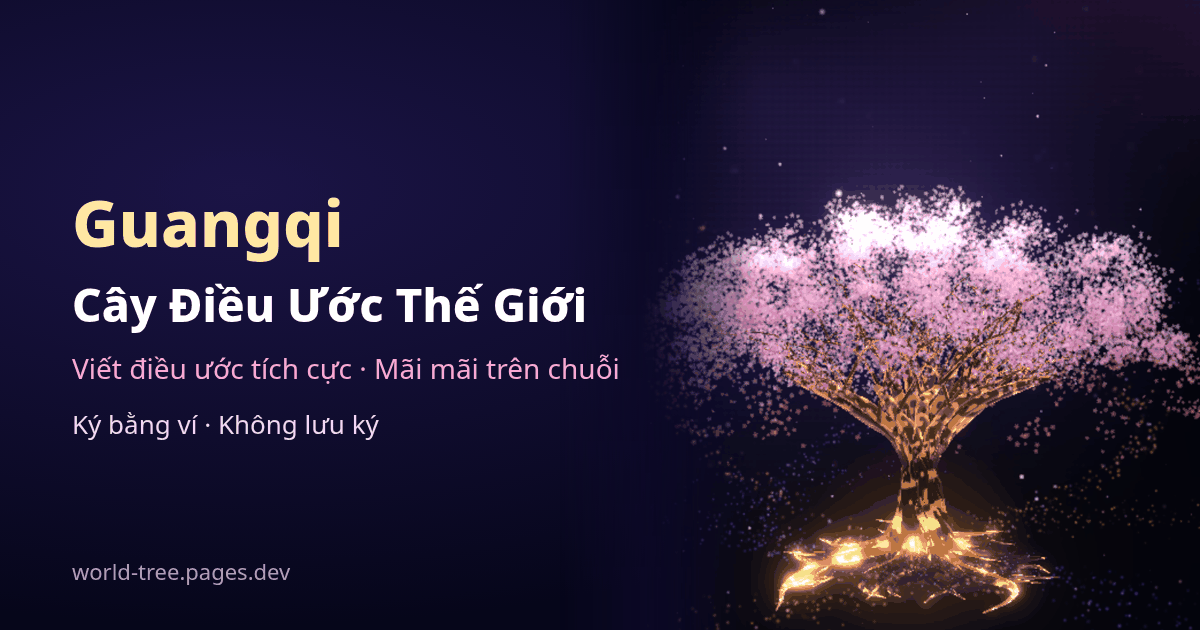
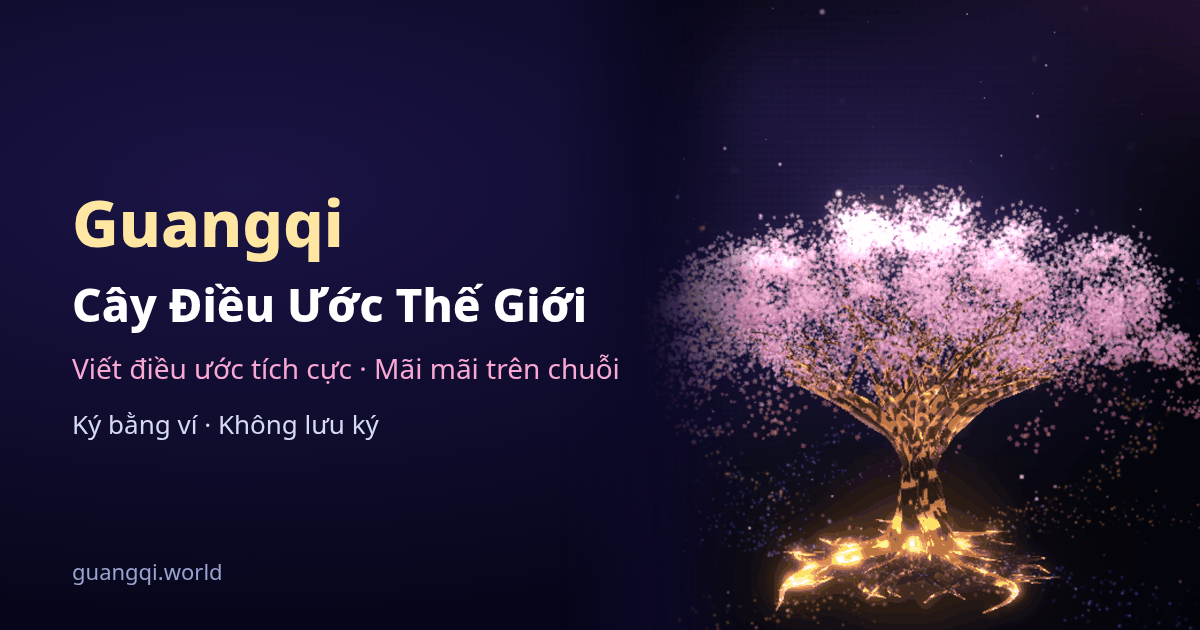
域名：guangqi.world 作为首选域名（DOMAINS_ENSURE 启动补齐、前端回退清单、og/canonical 默认值、og 图），pages.dev 保留备用

diff --git a/public/index.html b/public/index.html
@@ -3,8 +3,8 @@
 <meta name="description" content="在世界树上留下你的正向心愿，永久上链，不可转让。钱包签名，资金直达项目地址，本站不托管。">
 <meta name="keywords" content="光栖,世界树,许愿树,心愿卡,链上心愿,Solana,Web3,区块链许愿,Guangqi,World Tree,wish tree">
 <meta name="robots" content="index,follow,max-image-preview:large">
-<link rel="canonical" href="https://world-tree.pages.dev/">
-<link rel="alternate" hreflang="zh-CN" href="https://world-tree.pages.dev/?lang=zh-CN"><link rel="alternate" hreflang="zh-TW" href="https://world-tree.pages.dev/?lang=zh-TW"><link rel="alternate" hreflang="en" href="https://world-tree.pages.dev/?lang=en"><link rel="alternate" hreflang="ja" href="https://world-tree.pages.dev/?lang=ja"><link rel="alternate" hreflang="ko" href="https://world-tree.pages.dev/?lang=ko"><link rel="alternate" hreflang="es" href="https://world-tree.pages.dev/?lang=es"><link rel="alternate" hreflang="fr" href="https://world-tree.pages.dev/?lang=fr"><link rel="alternate" hreflang="de" href="https://world-tree.pages.dev/?lang=de"><link rel="alternate" hreflang="pt" href="https://world-tree.pages.dev/?lang=pt"><link rel="alternate" hreflang="ru" href="https://world-tree.pages.dev/?lang=ru"><link rel="alternate" hreflang="ar" href="https://world-tree.pages.dev/?lang=ar"><link rel="alternate" hreflang="hi" href="https://world-tree.pages.dev/?lang=hi"><link rel="alternate" hreflang="id" href="https://world-tree.pages.dev/?lang=id"><link rel="alternate" hreflang="th" href="https://world-tree.pages.dev/?lang=th"><link rel="alternate" hreflang="tr" href="https://world-tree.pages.dev/?lang=tr"><link rel="alternate" hreflang="vi" href="https://world-tree.pages.dev/?lang=vi"><link rel="alternate" hreflang="x-default" href="https://world-tree.pages.dev/">
+<link rel="canonical" href="https://guangqi.world/">
+<link rel="alternate" hreflang="zh-CN" href="https://guangqi.world/?lang=zh-CN"><link rel="alternate" hreflang="zh-TW" href="https://guangqi.world/?lang=zh-TW"><link rel="alternate" hreflang="en" href="https://guangqi.world/?lang=en"><link rel="alternate" hreflang="ja" href="https://guangqi.world/?lang=ja"><link rel="alternate" hreflang="ko" href="https://guangqi.world/?lang=ko"><link rel="alternate" hreflang="es" href="https://guangqi.world/?lang=es"><link rel="alternate" hreflang="fr" href="https://guangqi.world/?lang=fr"><link rel="alternate" hreflang="de" href="https://guangqi.world/?lang=de"><link rel="alternate" hreflang="pt" href="https://guangqi.world/?lang=pt"><link rel="alternate" hreflang="ru" href="https://guangqi.world/?lang=ru"><link rel="alternate" hreflang="ar" href="https://guangqi.world/?lang=ar"><link rel="alternate" hreflang="hi" href="https://guangqi.world/?lang=hi"><link rel="alternate" hreflang="id" href="https://guangqi.world/?lang=id"><link rel="alternate" hreflang="th" href="https://guangqi.world/?lang=th"><link rel="alternate" hreflang="tr" href="https://guangqi.world/?lang=tr"><link rel="alternate" hreflang="vi" href="https://guangqi.world/?lang=vi"><link rel="alternate" hreflang="x-default" href="https://guangqi.world/">
 <meta name="theme-color" content="#02030b">
 <meta property="og:type" content="website">
 <meta property="og:site_name" content="光栖 Guangqi">
@@ -12,9 +12,9 @@
 <meta property="og:locale:alternate" content="zh_TW"><meta property="og:locale:alternate" content="en_US"><meta property="og:locale:alternate" content="ja_JP"><meta property="og:locale:alternate" content="ko_KR"><meta property="og:locale:alternate" content="es_ES"><meta property="og:locale:alternate" content="fr_FR"><meta property="og:locale:alternate" content="de_DE"><meta property="og:locale:alternate" content="pt_BR"><meta property="og:locale:alternate" content="ru_RU"><meta property="og:locale:alternate" content="ar_AR"><meta property="og:locale:alternate" content="hi_IN"><meta property="og:locale:alternate" content="id_ID"><meta property="og:locale:alternate" content="th_TH"><meta property="og:locale:alternate" content="tr_TR"><meta property="og:locale:alternate" content="vi_VN">
 <meta property="og:title" content="光栖 · 世界树许愿树">
 <meta property="og:description" content="在世界树上留下你的正向心愿，永久上链">
-<meta property="og:url" content="https://world-tree.pages.dev/">
-<meta property="og:image" content="https://world-tree.pages.dev/og-image.png">
-<meta property="og:image:secure_url" content="https://world-tree.pages.dev/og-image.png">
+<meta property="og:url" content="https://guangqi.world/">
+<meta property="og:image" content="https://guangqi.world/og-image.png">
+<meta property="og:image:secure_url" content="https://guangqi.world/og-image.png">
 <meta property="og:image:type" content="image/png">
 <meta property="og:image:width" content="1200">
 <meta property="og:image:height" content="630">
@@ -22,7 +22,7 @@
 <meta name="twitter:card" content="summary_large_image">
 <meta name="twitter:title" content="光栖 · 世界树许愿树">
 <meta name="twitter:description" content="在世界树上留下你的正向心愿，永久上链">
-<meta name="twitter:image" content="https://world-tree.pages.dev/og-image.png">
+<meta name="twitter:image" content="https://guangqi.world/og-image.png">
 <meta name="twitter:image:alt" content="光栖 · 世界树许愿树"><link rel="icon" href="data:,"><link rel="stylesheet" href="style.css">
 <script type="importmap">{"imports":{"three":"./vendor/three/three.module.js","three/addons/":"./vendor/three/"}}</script></head>
 <body><a class="skip-link" href="#view" data-i18n="a11y.skip">跳到主要内容</a><canvas id="sky-fallback" role="img" data-i18n-aria="a11y.skyLabel" aria-label="世界树星空" aria-describedby="sky-desc"></canvas><div id="sky"></div><p id="sky-desc" class="sr-only" data-i18n="a11y.skyDesc"></p>

diff --git a/domains.js b/domains.js
@@ -5,10 +5,13 @@ const fs = require('fs'), path = require('path');
 const F = path.join(__dirname, 'data', 'domains.json'), STATUS = ['active', 'standby', 'blocked'], MAX = 50;
 const HOST = /^(?=.{4,253}$)([a-z0-9]([a-z0-9-]{0,61}[a-z0-9])?\.)+[a-z]{2,24}$/; // 只接受域名（无端口 / 路径 / IP / 凭据）
 const SEED = (process.env.DOMAINS_SEED || 'world-tree.pages.dev').split(',').map(x => x.trim().toLowerCase()).filter(x => HOST.test(x));
+// 启动时补齐的内置域名（只补缺失项，且一律 standby；不改已有域名的状态 / 主域）。换主域仍走管理端点。要永久删除某个域，同时把它从 DOMAINS_ENSURE 去掉。
+const ENSURE = (process.env.DOMAINS_ENSURE ?? 'guangqi.world,www.guangqi.world').split(',').map(x => x.trim().toLowerCase()).filter(x => HOST.test(x));
 let D = null; const err = c => Object.assign(new Error(c), { code: c });
 function load() { if (D) return D; let j = null; try { j = JSON.parse(fs.readFileSync(F, 'utf8')); } catch {}
   D = { domains: (j && j.domains && !Array.isArray(j.domains)) ? j.domains : {}, updatedAt: (j && j.updatedAt) || 0 };
-  if (!Object.keys(D.domains).length) { SEED.forEach((h, i) => D.domains[h] = { status: 'active', primary: i === 0, note: 'seed', at: 0 }); if (SEED.length) save(); } return D; }
+  if (!Object.keys(D.domains).length) { SEED.forEach((h, i) => D.domains[h] = { status: 'active', primary: i === 0, note: 'seed', at: 0 }); if (SEED.length) save(); }
+  let ch = false; for (const h of ENSURE) if (!D.domains[h] && Object.keys(D.domains).length < MAX) { D.domains[h] = { status: 'standby', primary: false, note: 'ensure', at: Math.floor(Date.now() / 1000) }; ch = true; } if (ch) save(); return D; }
 function save() { D.updatedAt = Math.floor(Date.now() / 1000); fs.mkdirSync(path.dirname(F), { recursive: true }); fs.writeFileSync(F, JSON.stringify(D), { mode: 0o600 }); }
 const norm = h => String(h || '').trim().toLowerCase().replace(/^https?:\/\//, '').replace(/\/+$/, '');
 function ok(h) { h = norm(h); if (!HOST.test(h)) throw err('host'); return h; }

diff --git a/scripts/build-pages.js b/scripts/build-pages.js
@@ -6,7 +6,7 @@ const api = (process.env.WT_API_BASE || 'https://world-tree-ijv1.onrender.com').
[1 lines of base64/hex data omitted]
 if (!/^[0-9a-f]{64}$/.test(mod)) throw new Error('bad moderator pubkey');
 const pub = path.join(__dirname, '..', 'public');
-const doms = (process.env.WT_DOMAINS || '').split(',').map(x => x.trim().toLowerCase()).filter(x => /^([a-z0-9-]+\.)+[a-z]{2,24}$/.test(x)); // 内置默认域名清单（/api/domains 不可达时的回退，首个为主域）
+const doms = (process.env.WT_DOMAINS || '').split(',').map(x => x.trim().toLowerCase()).filter(x => /^([a-z0-9-]+\.)+[a-z]{2,24}$/.test(x)); if (!doms.length) doms.push('guangqi.world', 'world-tree.pages.dev'); // 默认：guangqi.world 为首选，pages.dev 备用 // 内置默认域名清单（/api/domains 不可达时的回退，首个为主域）
 fs.writeFileSync(path.join(pub, 'config.js'), `window.WT_CONFIG = { moderatorPubkeyHex: '${mod}', apiBase: '${api}'${doms.length ? ", domains: " + JSON.stringify(doms) : ''} };\n`);
 // _headers：x-wt 让 Service Worker 识别真实响应；第三方库长缓存
 fs.writeFileSync(path.join(pub, '_headers'), `/*\n  x-wt: 1\n/vendor/*\n  cache-control: public, max-age=604800, stale-while-revalidate=2592000\n/models/*\n  cache-control: public, max-age=604800\n/blocklist*\n  cache-control: public, max-age=300, stale-while-revalidate=86400\n  access-control-allow-origin: *\n/og-image.png\n  cache-control: public, max-age=86400, stale-while-revalidate=604800\n/og/*\n  cache-control: public, max-age=86400, stale-while-revalidate=604800\n`);

diff --git a/scripts/og/gen.js b/scripts/og/gen.js
@@ -8,7 +8,7 @@ const html = (k, x) => `<!doctype html><html lang="${k}" dir="${x.rtl ? 'rtl' : 
 .t{position:absolute;top:0;bottom:0;left:72px;width:600px;display:flex;flex-direction:column;justify-content:center;gap:18px}
 .b{color:#ffe7a3;font-size:${x.b.length > 6 ? 64 : 84}px;font-weight:800;line-height:1.1}.b small{font-size:36px;color:#f6b26b;font-weight:500;margin-inline-start:22px}
 .ti{color:#fff;font-size:${x.t.length > 16 ? 46 : 54}px;font-weight:800;line-height:1.2}.u{color:#f9a8d4;font-size:${x.u.length > 34 ? 28 : 34}px;line-height:1.35}.m{color:#d6dbf5;font-size:26px}.url{position:absolute;bottom:44px;left:72px;color:#9aa3cf;font:22px "Noto Sans",sans-serif}
-</style><body><div class=tree></div><div class=t><div class=b>${x.b}${x.s ? `<small>${x.s}</small>` : ''}</div><div class=ti>${x.t}</div><div class=u>${x.u}</div><div class=m>${x.m}</div></div><div class=url>world-tree.pages.dev</div></body></html>`;
+</style><body><div class=tree></div><div class=t><div class=b>${x.b}${x.s ? `<small>${x.s}</small>` : ''}</div><div class=ti>${x.t}</div><div class=u>${x.u}</div><div class=m>${x.m}</div></div><div class=url>guangqi.world</div></body></html>`;
 (async () => { const b = await chromium.launch(), p = await b.newPage({ viewport: { width: 1200, height: 630 } });
   for (const [k, x] of Object.entries(T)) { await p.setContent(html(k, x)); await p.evaluate(() => document.fonts.ready); await p.screenshot({ path: path.join(out, `og-${k}.png`) }); }
   await b.close(); })();

diff --git a/goods.js b/goods.js
@@ -24,7 +24,7 @@ function checkUrl(u, Block) {
 }
 function get1(x, max, accept) {
   return new Promise((res, rej) => {
-    const r = https.get(x, { lookup: safeLookup, timeout: TIMEOUT, headers: { 'user-agent': 'Mozilla/5.0 (compatible; WorldTreePreview/1.0; +https://world-tree.pages.dev)', accept, 'accept-language': 'zh-CN,zh;q=0.9,en;q=0.8' } }, s => {
+    const r = https.get(x, { lookup: safeLookup, timeout: TIMEOUT, headers: { 'user-agent': 'Mozilla/5.0 (compatible; WorldTreePreview/1.0; +https://guangqi.world)', accept, 'accept-language': 'zh-CN,zh;q=0.9,en;q=0.8' } }, s => {
       if ([301, 302, 303, 307, 308].includes(s.statusCode)) { s.resume(); return res({ redirect: s.headers.location }); }
       if (s.statusCode !== 200) { s.resume(); return rej(Object.assign(new Error('HTTP ' + s.statusCode), { code: 'goodsFetch' })); }
       const len = +s.headers['content-length'] || 0; if (len > max) { s.destroy(); return rej(Object.assign(new Error('too large'), { code: 'goodsSize' })); }

diff --git a/functions/_middleware.js b/functions/_middleware.js
@@ -1,7 +1,7 @@
 // Cloudflare Pages 中间件：社交爬虫不执行 JS，按 ?lang= → Accept-Language → zh-CN 服务端改写 <head> 的 og/twitter/lang
 import META from '../public/og/meta.json';
 const LANGS = Object.keys(META); // 域名取当前请求的 origin（多域名部署，不写死）
-const DEFAULT_ORIGIN = 'https://world-tree.pages.dev';
+const DEFAULT_ORIGIN = 'https://guangqi.world'; // 与 public/index.html 里静态写的首选域名一致；实际输出一律用当前请求的 origin
 function match(l) { if (!l) return null; l = l.trim().toLowerCase();
   if (l.startsWith('zh')) return /tw|hk|mo|hant/.test(l) ? 'zh-TW' : 'zh-CN';
   return LANGS.find(k => k.toLowerCase() === l) || LANGS.find(k => k.toLowerCase() === l.split('-')[0]) || null; }

diff --git a/docs/domains.md b/docs/domains.md
@@ -14,6 +14,15 @@
 - **管理端点**（`x-admin-key` = `ADMIN_KEY`）：`GET /api/admin/domains`、`GET|POST /api/admin/domains/check`（HEAD 探测每个域名）、`POST /api/admin/domains {action:add|primary|status|remove, host, status}`、`POST /api/admin/domains/failover`（主域不通 / blocked → 自动切到健康的备用域，并把旧主域标 blocked）。规则：blocked 域不能设为主域；主域不能直接降级或删除（先换主域）。
 - **og / canonical**：`functions/_middleware.js` 用当前请求的 origin 改写 og:url / og:image / canonical / hreflang；前端 SEO 脚本用 `location.origin`。
 
+## 当前域名（guangqi.world）
+- 首选域名：`guangqi.world`（Cloudflare Pages 项目 `world-tree` 的自定义域名）；`www.guangqi.world` 备用；`world-tree.pages.dev` 保留为备用。
+- **代码里的内置补齐**：`DOMAINS_ENSURE`（默认 `guangqi.world,www.guangqi.world`）——API 启动时把清单里缺失的这些域名补成 **standby**（不改已有域名的状态，也不改主域），所以 Render 部署后 CORS 立即允许它们，不需要 ADMIN_KEY。
+- **设为主域必须用管理端点**（需要 `ADMIN_KEY`，只放环境变量）：
+  `ADMIN_KEY=… node scripts/domains.js primary guangqi.world`（pages.dev 自动保持 active 作为备用；`www` 保持 standby）。
+- 前端内置回退清单（API 不可达且无缓存时）默认 `guangqi.world`（主）+ `world-tree.pages.dev`，可用仓库 Variables `WT_DOMAINS` 覆盖。
+- 站内不再写死域名：分享链接 / 钱包 appIdentity（MWA、WalletConnect、Dynamic）都用 `location.origin`；og / canonical 由 `functions/_middleware.js` 用当前请求的 origin 改写（静态 HTML 里的默认值是 guangqi.world）；og 图上的网址文字为 guangqi.world（`node scripts/og/gen.js` 生成）。`blocklist.js` 仍从 pages.dev 拉取 blocklist（备用域名，保持可用即可）。
+- 第三方后台要同步添加新域名：Dynamic → Security → Allowed Origins 加 `https://guangqi.world`、`https://www.guangqi.world`；Reown（WalletConnect）→ 项目 → Domain allowlist 加 `guangqi.world`、`www.guangqi.world`（填项目 ID 后才需要）。pages.dev 的条目保留。
+
 ## 怎么加新域名
 1. 买域名（注册商任选），在 Cloudflare 添加站点或把 DNS 指到 Cloudflare。
 2. Cloudflare Pages → 项目 `world-tree` → Custom domains → 绑定新域名（同一个项目可绑多个域名，部署一次全部生效）。如要完全独立的备份，另建 Pages 项目并在 GitHub 仓库 Variables 设置 `WT_EXTRA_PAGES_PROJECTS=proj-b,proj-c`，同一份构建会被部署到这些项目（不设置则跳过，不报错）。

diff --git a/README.md b/README.md
@@ -144,7 +144,7 @@ server.js · moderation.js · fulfillment.js（心愿实现 + 内部记账） ·
 ## Cloudflare Pages 前端（API 仍在 Render）
 - Pages 项目：连接 GitHub `anx53084-droid/world-tree`，分支 `main`；Framework preset: None；Build command: `node scripts/build-pages.js`；Build output directory: `public`。
 - 构建脚本生成 `public/config.js`（`apiBase` = `https://world-tree-ijv1.onrender.com`，审核公钥内置）与 `public/_headers`（`x-wt` 供 Service Worker 识别）。可用 Pages 环境变量 `WT_API_BASE` / `WT_MODERATOR_PUBKEY` 覆盖。
-- 服务器 CORS：默认允许 `https://world-tree.pages.dev` 及其预览子域（`<hash>.world-tree.pages.dev`）；前端由 GitHub Actions（.github/workflows/pages.yml）在 push main 时自动部署；自定义域名加到 Render 环境变量 `ALLOWED_ORIGINS`（逗号分隔），或用 `CORS_ORIGIN_RE` 覆盖规则。鉴权使用 Bearer token（localStorage），不依赖 cookie。
+- 服务器 CORS：默认允许 `https://world-tree.pages.dev` 及其预览子域（`<hash>.world-tree.pages.dev`）；前端由 GitHub Actions（.github/workflows/pages.yml）在 push main 时自动部署；首选域名 `guangqi.world` 由 `DOMAINS_ENSURE` 启动时补进域名清单（standby，设主域见 docs/domains.md）；其他自定义域名加到 Render 环境变量 `ALLOWED_ORIGINS`（逗号分隔），或用 `CORS_ORIGIN_RE` 覆盖规则。鉴权使用 Bearer token（localStorage），不依赖 cookie。
 - 冷启动：前端静态资源由 Cloudflare 提供，树立即渲染；`/api` 幂等请求在服务器唤醒期间自动重试（≤90s），显示「正在唤醒服务器」提示；链上读取超时后浏览器直连 devnet。
 
 ## 多链钱包 · 安全设置 · 站内信
